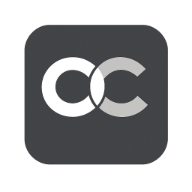
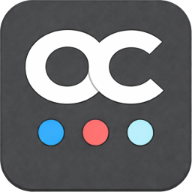
更新图标logo

diff --git a/frontend/src/App.jsx b/frontend/src/App.jsx
@@ -341,9 +341,12 @@ export default function App() {
       <div className="min-h-screen bg-gradient-to-br from-amber-50 via-orange-50 to-rose-50 text-stone-900">
         <div className="flex min-h-screen items-center justify-center px-6">
           <div className="w-full max-w-md rounded-2xl border border-stone-200 bg-white/90 p-6 shadow-lg">
-            <p className="text-xs font-semibold uppercase tracking-[0.3em] text-stone-500">
-              Offers Camp
-            </p>
+            <img
+              src="/images/logo-sm.png"
+              alt="Offers Camp"
+              className="h-7 w-auto"
+              loading="lazy"
+            />
             <h1 className="mt-3 text-2xl font-semibold text-stone-900">Sign in</h1>
             <p className="mt-2 text-sm text-stone-600">
               Log in to access your offers dashboard.
@@ -399,9 +402,12 @@ export default function App() {
       <div className="min-h-screen bg-gradient-to-br from-amber-50 via-orange-50 to-rose-50 text-stone-900">
         <div className="flex min-h-screen items-center justify-center px-6">
           <div className="w-full max-w-md rounded-2xl border border-stone-200 bg-white/90 p-6 shadow-lg">
-            <p className="text-xs font-semibold uppercase tracking-[0.3em] text-stone-500">
-              Offers Camp
-            </p>
+            <img
+              src="/images/logo-sm.png"
+              alt="Offers Camp"
+              className="h-7 w-auto"
+              loading="lazy"
+            />
             <h1 className="mt-3 text-2xl font-semibold text-stone-900">Login complete</h1>
             <p className="mt-2 text-sm text-stone-600">
               {tmStatus || "Finishing sign-in..."}
@@ -424,9 +430,12 @@ export default function App() {
       <div className="flex w-full flex-col gap-8 px-6 py-10">
         <header className="flex flex-col gap-6 lg:flex-row lg:items-end lg:justify-between">
           <div className="max-w-2xl">
-            <p className="text-xs font-semibold uppercase tracking-[0.3em] text-stone-500">
-              Offers Camp
-            </p>
+            <img
+              src="/images/logo-sm.png"
+              alt="Offers Camp"
+              className="h-10 w-auto"
+              loading="lazy"
+            />
             <h1 className="mt-3 text-3xl font-semibold text-stone-900 sm:text-4xl">
               Collected offers from your active session
             </h1>

diff --git a/tm-scripts/tampermonkey.prod.js b/tm-scripts/tampermonkey.prod.js
@@ -10,7 +10,7 @@
 // @require      https://tm.offers.camp/js/offers-auth.js?v=0.1
 // @require      https://tm.offers.camp/js/providers/amex.js?v=0.1
 // @require      https://tm.offers.camp/js/offers-core.js?v=0.1
-// @resource     ccOffersCss https://tm.offers.camp/js/offers-camp.css?v=0.1
+// @resource     ccOffersCss https://tm.offers.camp/css/offers-camp.css?v=0.1
 // @grant        GM_addStyle
 // @grant        GM_getResourceText
 // @grant        GM_getValue
